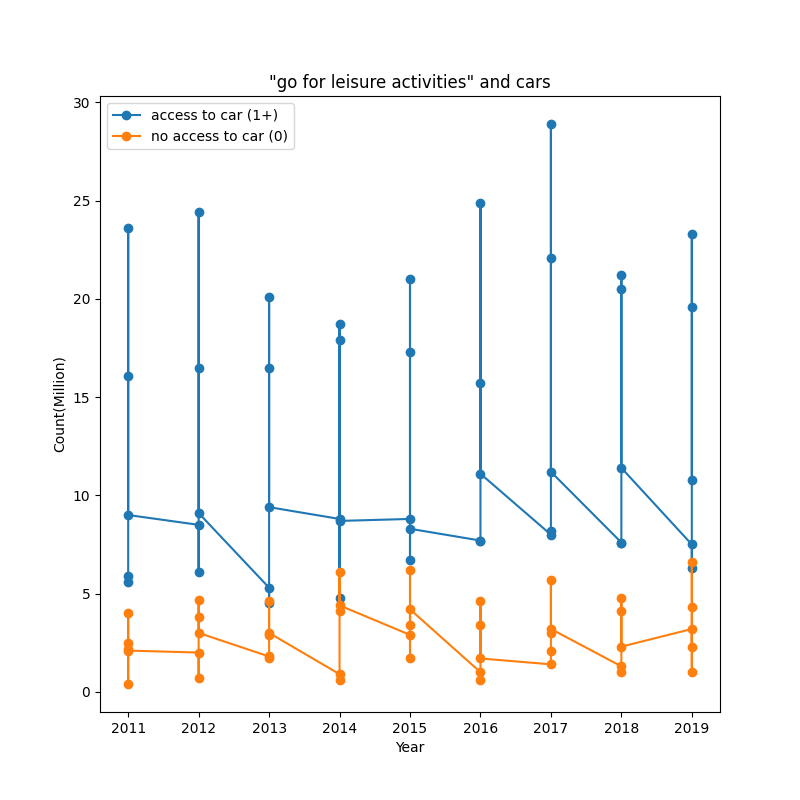
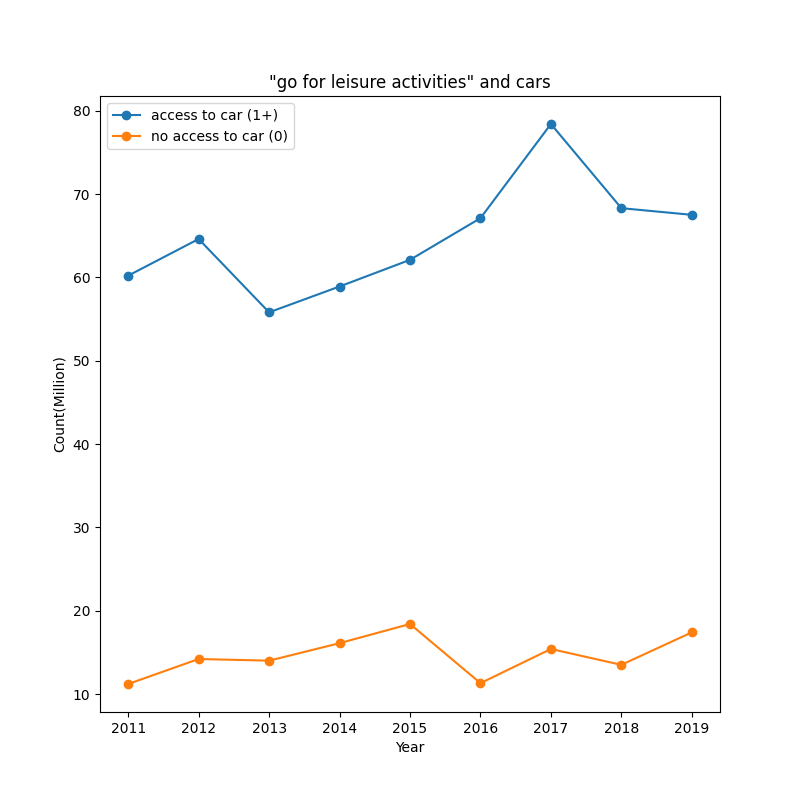
Group the original data as the actions have been classified into 8 types of action.

diff --git a/overall_purpose/attributeDistribution.py b/overall_purpose/attributeDistribution.py
@@ -36,7 +36,9 @@ def classifyPurpose(input):
 
 attributes=['visit friends or family', 'go shopping', 'go for food', 'go for entertainment', 'go for leisure activities',
             'for special event', 'go for health centre', 'other activities']
+#Read data from database
 purposeData = rfd.readFrom('action', 'activity')
+#List used to classify visitors and draw the figures.
 age=['16-24', '25-34', '35-44', '45-54', '55-64', '65+']
 cars=['access to car (1+)', 'no access to car (0)']
 children=['yes', 'no']
@@ -48,7 +50,11 @@ working=['employed/self-employed (full or part time)',
 columns=[age, cars, children, gender, social, working, married]
 visitorType=['age', 'cars', 'children', 'gender', 'social', 'working', 'married']
 purposeData['Action'] = purposeData['Action'].apply(lambda x:classifyPurpose(x))
+#Group the based on action as the detailed 15 actions are classified into 8 actions.
+purposeData=purposeData.groupby(['Year', 'Action', 'Visitor', 'Attribute']).sum().reset_index()
+#Draw the figures for each action
 for action in attributes:
+    #For each type of visitors which took different action, draw the figures to find the trend.
     for i in range(len(columns)):
         plt.figure(figsize=(8, 8))
         data = purposeData[(purposeData['Visitor']==visitorType[i]) & (purposeData['Action']==action)]
